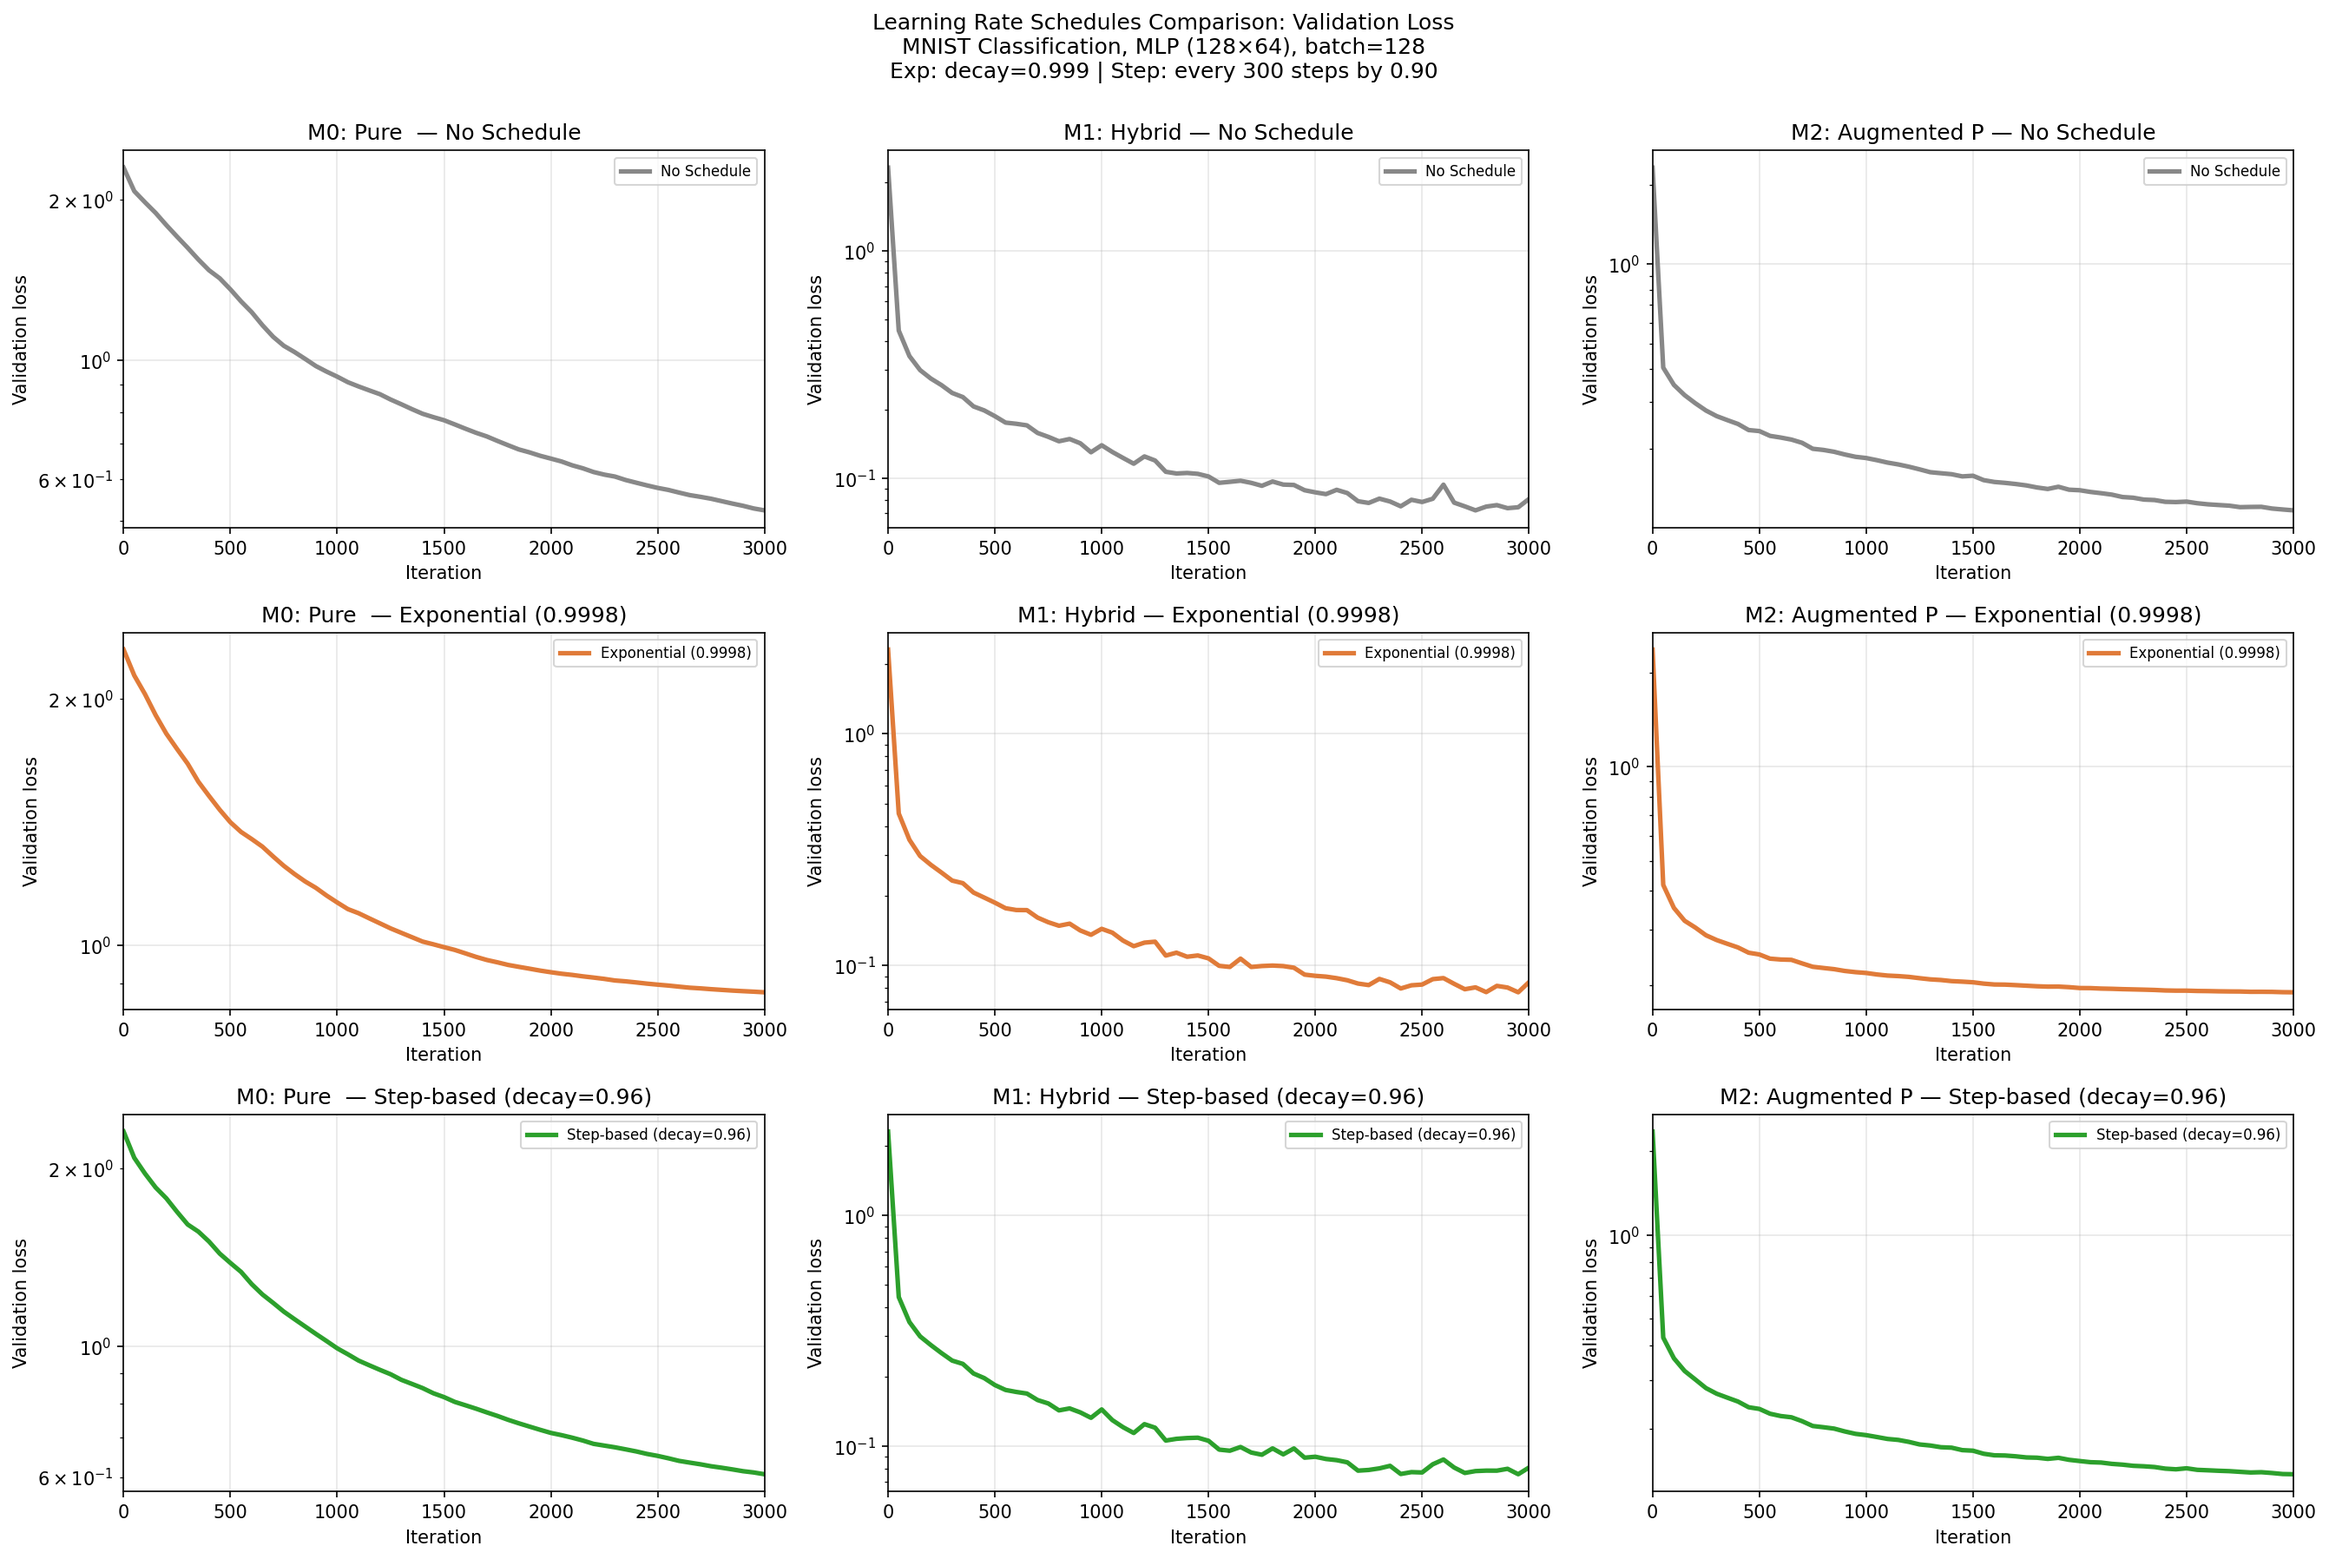
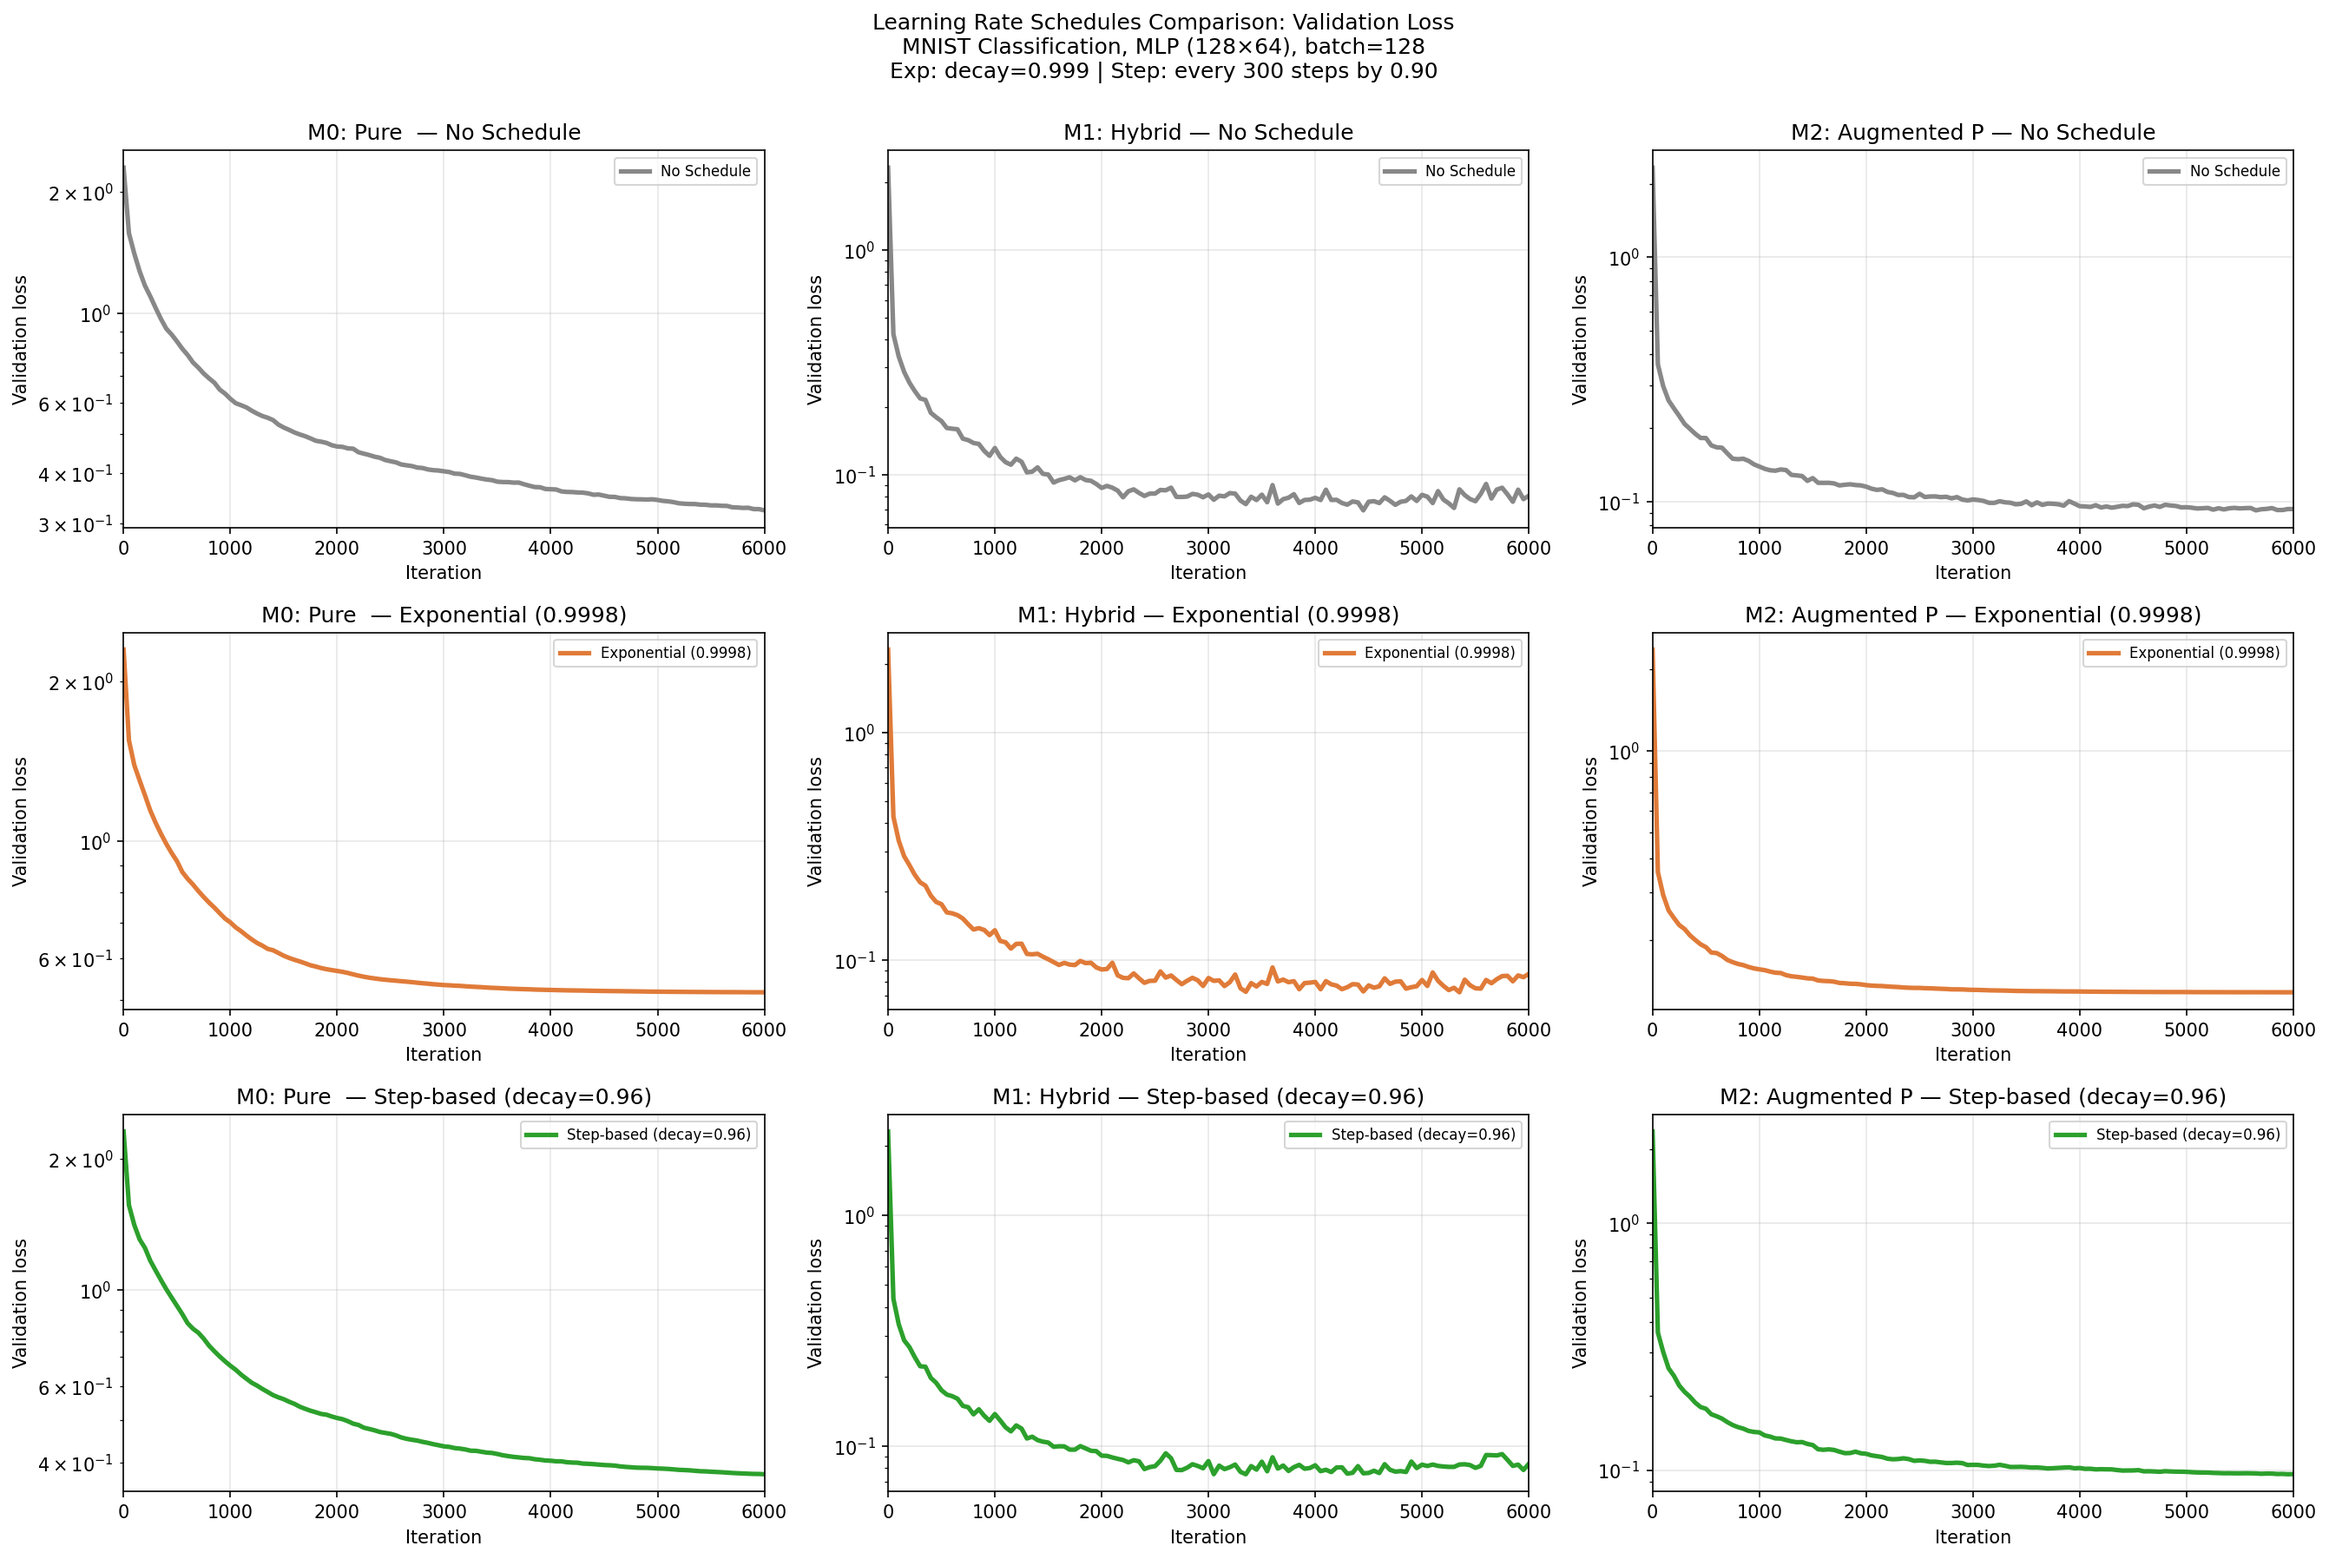
lr scheduling

diff --git a/subspace.py b/subspace.py
@@ -937,7 +937,7 @@ if __name__ == '__main__':
     subtitle    = 'MNIST Classification, MLP (128×64), batch=128'
 
     # ── Shared hyperparameters ─────────────────────────────────
-    N_ITERS     = 3000
+    N_ITERS     = 6000
     VAL_EVERY   = 50
     K           = 50        # random subspace columns for Exp A
     REFRESH     = 50        # resample random cols every N steps
@@ -951,7 +951,7 @@ if __name__ == '__main__':
     # Optional: use learning rate scheduling (e.g., exponential or step-based decay)
     # lr_sched = lambda step, lr0: lr_schedule_exp(step, lr0, decay_rate=0.9998)
     GN_COMMON = dict(
-        damping=1e-1,       # regularisation for the reduced GN solve
+        damping=0,       # regularisation for the reduced GN solve
         lr=1.0,
         refresh_every=REFRESH,
         use_qr=USE_QR,
